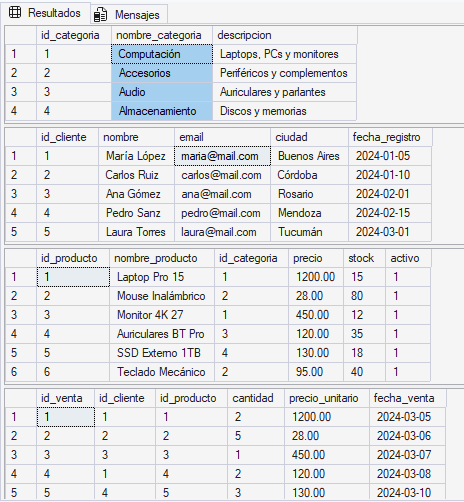
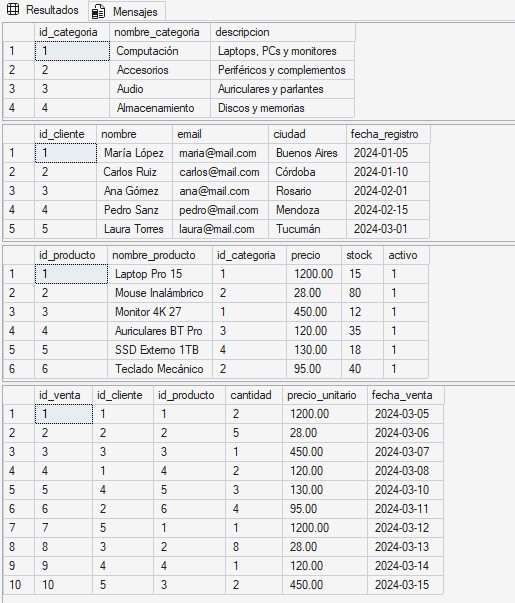
README y script repetible

diff --git a/README.md b/README.md
@@ -1,0 +1,54 @@
+# Pre-entrega 3 – Base de datos Ventas_Tech_DB
+
+**Curso:** Data Analytics – Coderhouse
+**Autora:** Milagros Gallegos
+**Motor:** SQL Server 2016 o superior
+
+## Descripción
+
+Script SQL que crea y carga la base de datos `Ventas_Tech_DB`, un modelo de ventas de una tienda de tecnología. El script es **repetible**: se puede ejecutar varias veces sin errores, porque borra las tablas antes de volver a crearlas.
+
+## Modelo de datos
+
+```
+categorias (1) ──── (N) productos (1) ──── (N) ventas (N) ──── (1) clientes
+```
+
+| Tabla        | Descripción                          | Clave primaria | Claves foráneas                  |
+|--------------|--------------------------------------|----------------|----------------------------------|
+| `categorias` | Rubros de productos                  | `id_categoria` | —                                |
+| `clientes`   | Clientes registrados                 | `id_cliente`   | —                                |
+| `productos`  | Catálogo con precio y stock          | `id_producto`  | `id_categoria` → `categorias`    |
+| `ventas`     | Cada venta: cliente, producto, fecha | `id_venta`     | `id_cliente`, `id_producto`      |
+
+## Estructura del script `ventas_tech_db.sql`
+
+1. **Preparación:** crea la base `Ventas_Tech_DB` si no existe y se posiciona en ella.
+2. **DROP:** elimina las tablas en orden inverso a las dependencias (`ventas` → `productos` → `clientes` → `categorias`).
+3. **CREATE:** crea las cuatro tablas con sus claves primarias, foráneas y restricciones (`NOT NULL`, `UNIQUE`, `DEFAULT`).
+4. **INSERT:** carga datos de prueba en el orden de las dependencias.
+5. **VALIDACIÓN:** consultas que verifican la carga:
+   - contenido de cada tabla;
+   - cantidad de filas por tabla frente a lo esperado (4, 5, 6 y 10).
+
+## Cómo ejecutarlo
+
+1. Abrir `ventas_tech_db.sql` en SQL Server Management Studio.
+2. Ejecutar el script completo (F5).
+3. Revisar los resultados de la sección VALIDACIÓN.
+
+## Archivos del repositorio
+
+| Archivo              | Contenido                                               |
+|----------------------|---------------------------------------------------------|
+| `ventas_tech_db.sql` | Script completo (DROP, CREATE, INSERT y VALIDACIÓN)     |
+| `categorias.csv`     | Exportación de la tabla `categorias`                    |
+| `clientes.csv`       | Exportación de la tabla `clientes`                      |
+| `productos.csv`      | Exportación de la tabla `productos`                     |
+| `resultados.csv`     | Resultados de las consultas de validación               |
+| `mensajes.rpt`       | Mensajes de ejecución de SQL Server                     |
+| `evidencia.jpeg`     | Captura de la ejecución del script                      |
+
+## Evidencia de ejecución
+
+![Evidencia de ejecución](evidencia.jpeg)
